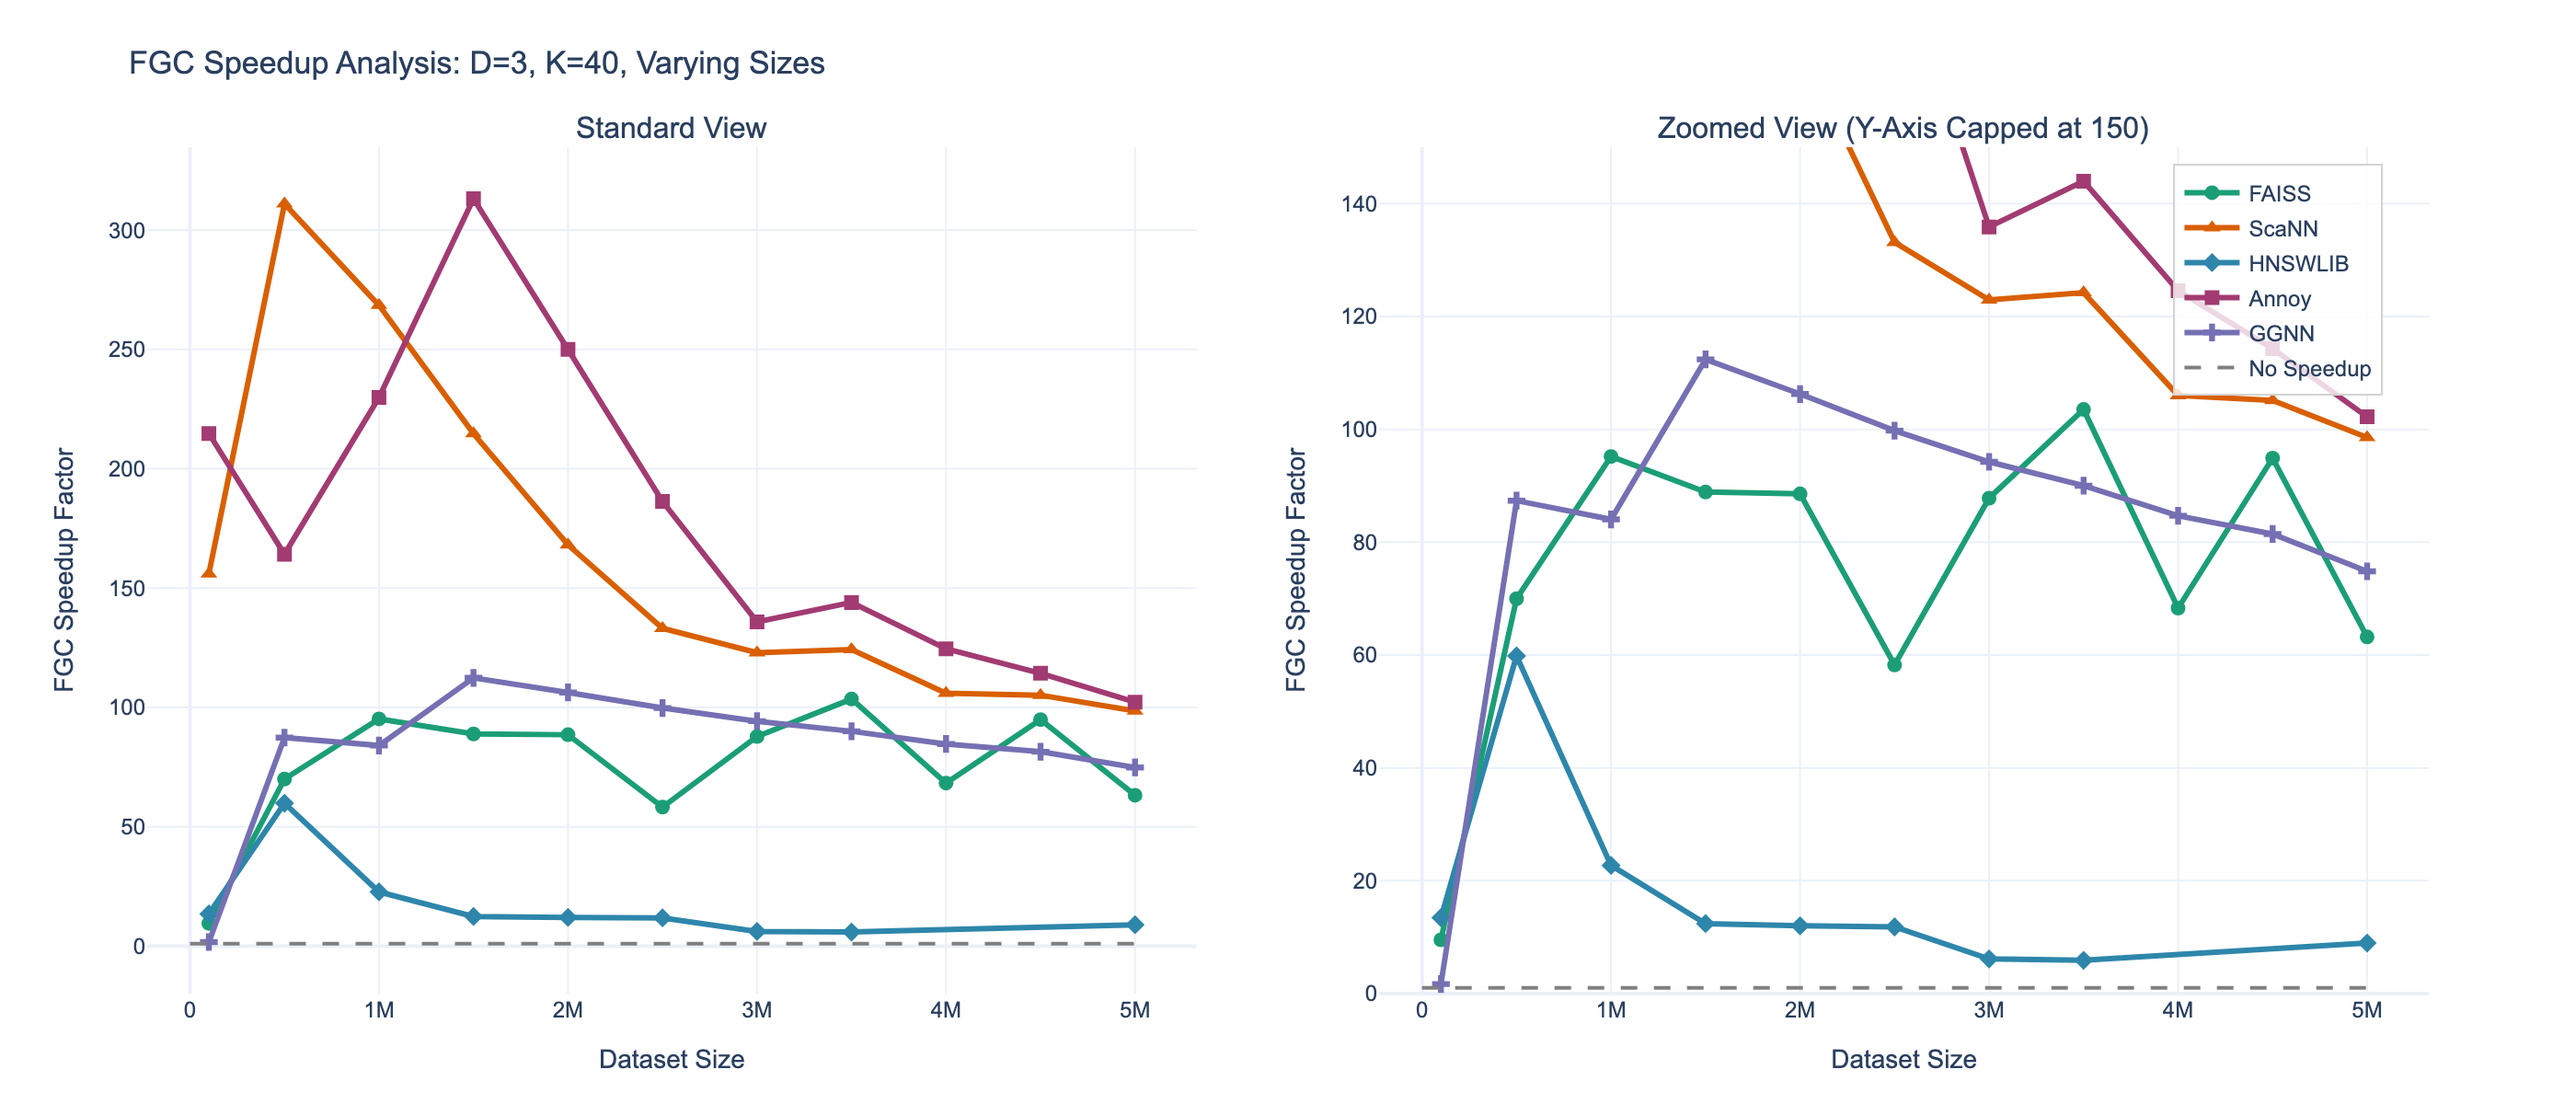
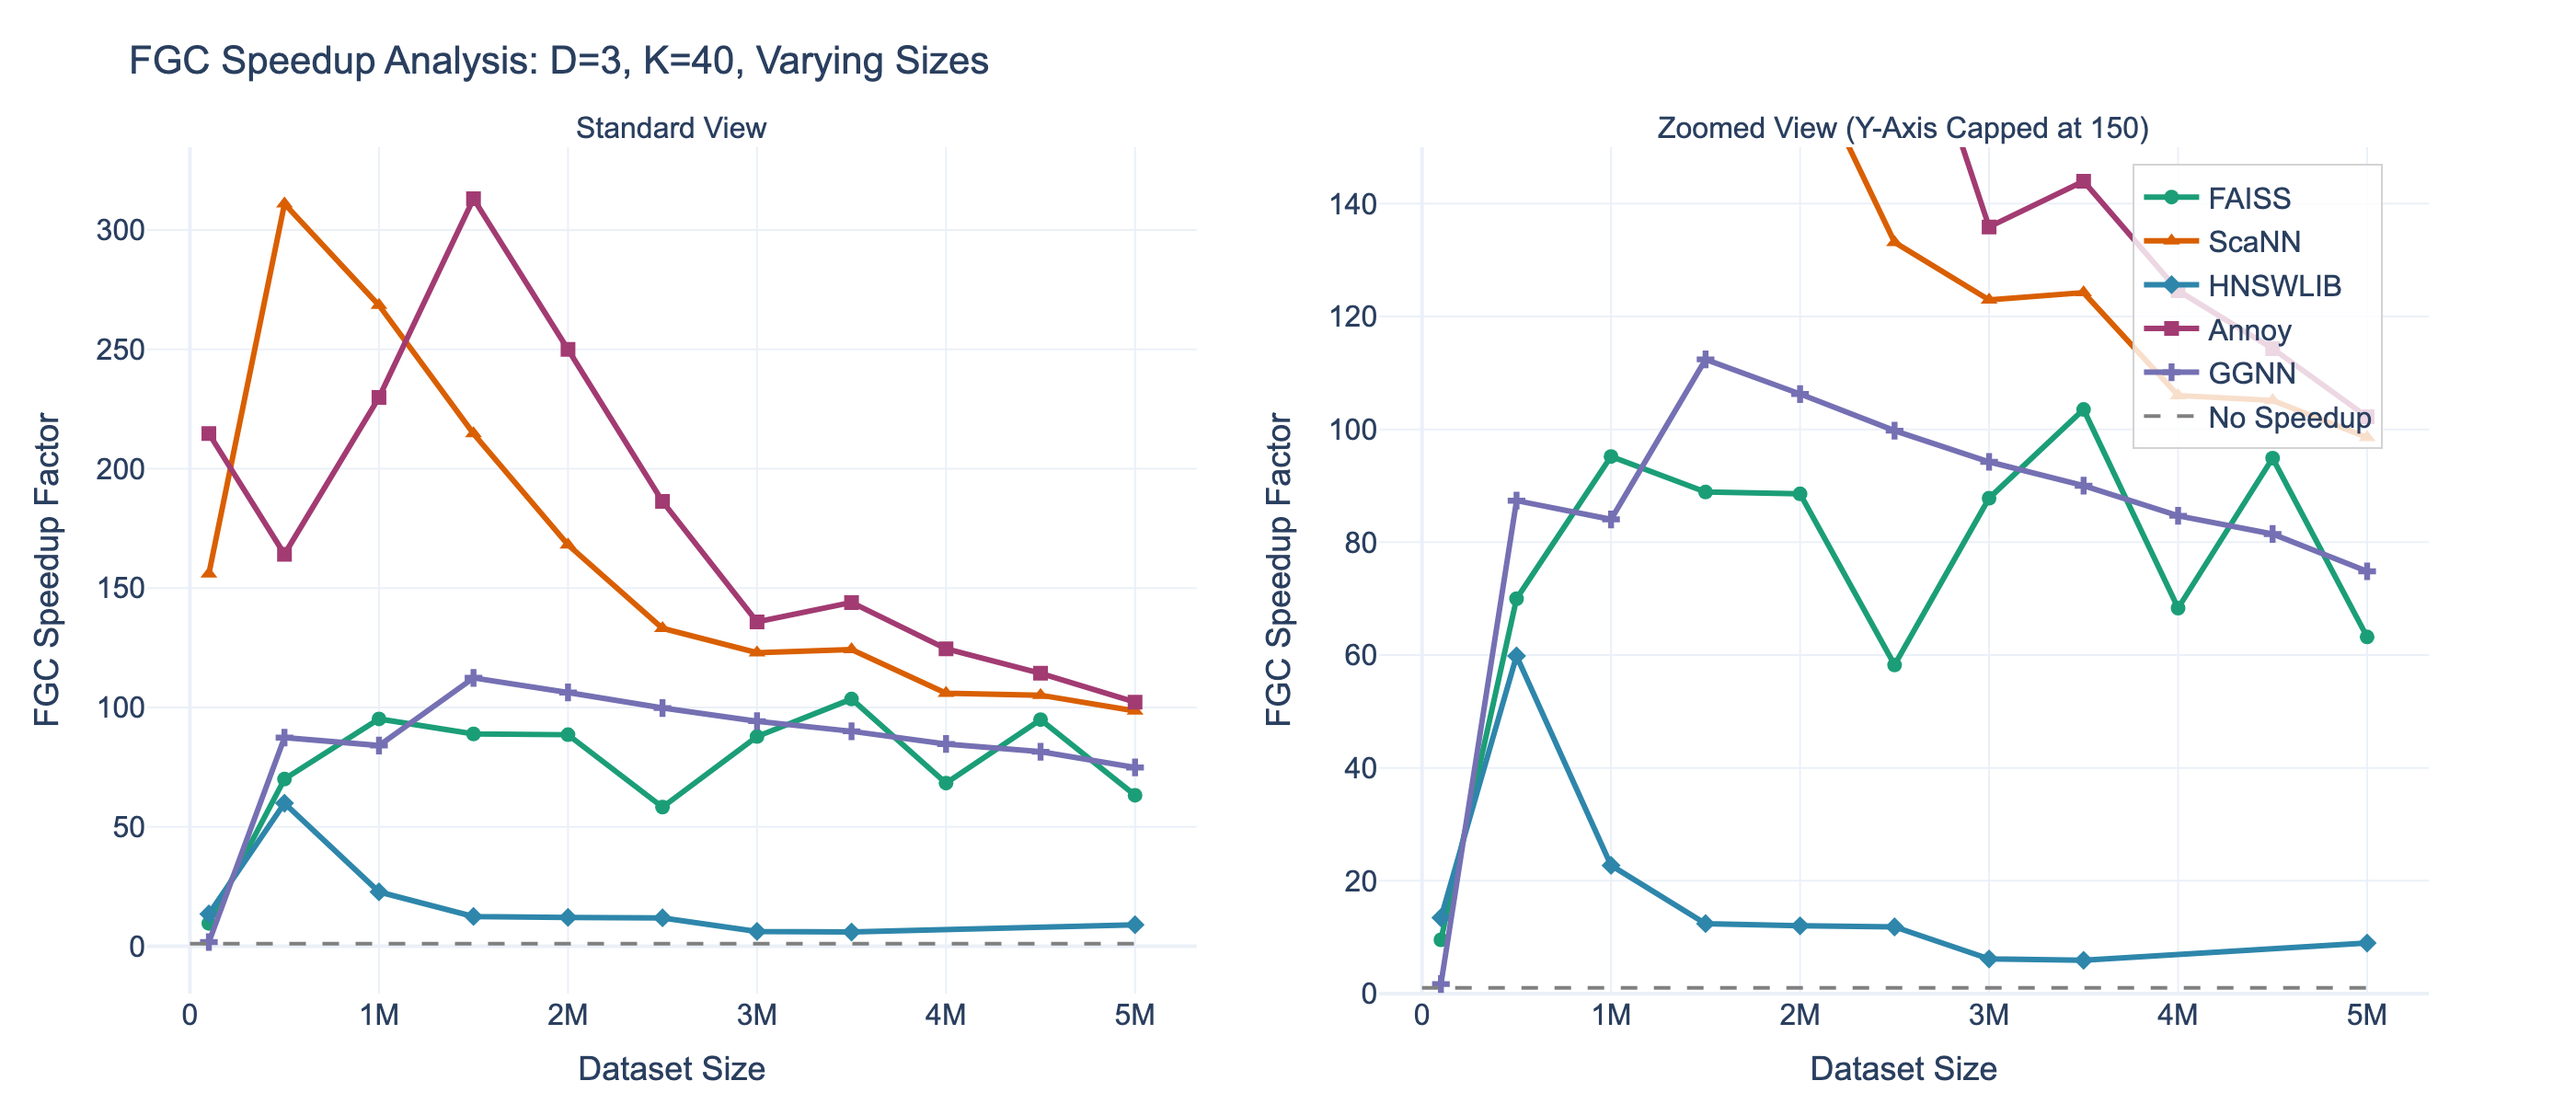
updates to zooming

diff --git a/process_csvs.py b/process_csvs.py
@@ -385,7 +385,8 @@ def plot_fgc_speedup_analysis(data: pd.DataFrame, analysis_type: str, **kwargs) 
         range=x_range,
         gridcolor='lightgray',
         title=x_title,
-        title_font_size=14
+        title_font_size=18,
+        tickfont=dict(size=16)
     )
 
     if analysis_type == 'sizes':
@@ -407,7 +408,8 @@ def plot_fgc_speedup_analysis(data: pd.DataFrame, analysis_type: str, **kwargs) 
     y_axis_config = {
         'gridcolor': 'lightgray',
         'title': "FGC Speedup Factor",
-        'title_font_size': 14
+        'title_font_size': 18,
+        'tickfont': dict(size=16)
     }
     if y_axis_cap:
         y_axis_config['range'] = [0, y_axis_cap]
@@ -421,13 +423,13 @@ def plot_fgc_speedup_analysis(data: pd.DataFrame, analysis_type: str, **kwargs) 
         title=dict(
             text=title,
             x=0.5,
-            font_size=16,
+            font_size=21,
             font_family="Arial"
         ),
         height=500,
         width=800 if analysis_type == 'dimensions' else 1200,
         template='plotly_white',
-        font=dict(family="Arial", size=12),
+        font=dict(family="Arial", size=16),
         legend=dict(
             orientation="v",
             yanchor="top",
@@ -476,6 +478,9 @@ def plot_side_by_side_with_zoom(data: pd.DataFrame, analysis_type: str, **kwargs
         subplot_titles=(subtitle_left, subtitle_right),
         horizontal_spacing=0.08
     )
+    # Update subplot title font size
+    for annotation in fig['layout']['annotations']:
+        annotation['font'] = dict(size=16)
 
     # Generate standard view
     fig_normal = plot_fgc_speedup_analysis(
@@ -500,10 +505,13 @@ def plot_side_by_side_with_zoom(data: pd.DataFrame, analysis_type: str, **kwargs
     else:
         x_title = "Dataset Size"
 
-    fig.update_xaxes(title_text=x_title, row=1, col=1)
-    fig.update_xaxes(title_text=x_title, row=1, col=2)
-    fig.update_yaxes(title_text="FGC Speedup Factor", row=1, col=1)
+    fig.update_xaxes(title_text=x_title, title_font_size=18,
+                     tickfont=dict(size=16), row=1, col=1)
+    fig.update_xaxes(title_text=x_title, title_font_size=18,
+                     tickfont=dict(size=16), row=1, col=2)
     fig.update_yaxes(title_text="FGC Speedup Factor",
+                     title_font_size=18, tickfont=dict(size=16), row=1, col=1)
+    fig.update_yaxes(title_text="FGC Speedup Factor", title_font_size=18, tickfont=dict(size=16),
                      range=[0, y_axis_cap], row=1, col=2)
 
     if analysis_type == 'sizes':
@@ -527,10 +535,11 @@ def plot_side_by_side_with_zoom(data: pd.DataFrame, analysis_type: str, **kwargs
     # Update main layout - position legend on rightmost subplot (col=2)
     fig.update_layout(
         title_text=main_title,
+        title_font_size=21,
         height=600,
         width=1400,
         template='plotly_white',
-        font=dict(family="Arial", size=12),
+        font=dict(family="Arial", size=16),
         legend=dict(
             orientation="v",
             yanchor="top",
@@ -554,6 +563,9 @@ def plot_k_comparison_dimensional_analysis(data: pd.DataFrame) -> go.Figure:
         subplot_titles=("K=10", "K=40", "K=100"),
         horizontal_spacing=0.08
     )
+    # Update subplot title font size
+    for annotation in fig['layout']['annotations']:
+        annotation['font'] = dict(size=16)
 
     k_values = [10, 40, 100]
 
@@ -576,21 +588,26 @@ def plot_k_comparison_dimensional_analysis(data: pd.DataFrame) -> go.Figure:
     for i in range(1, 4):
         fig.update_xaxes(
             title_text="Number of Dimensions (d)",
+            title_font_size=18,
+            tickfont=dict(size=16),
             range=[2, 10],
             row=1, col=i
         )
         fig.update_yaxes(
             title_text="FGC Speedup Factor" if i == 1 else "",
+            title_font_size=18 if i == 1 else None,
+            tickfont=dict(size=16),
             row=1, col=i
         )
 
     # Update main layout - position legend on rightmost subplot (col=3)
     fig.update_layout(
         title_text="FGC Dimensional Scaling Analysis: K Comparison (1M Vectors, d=2-10)",
+        title_font_size=21,
         height=600,
         width=1800,
         template='plotly_white',
-        font=dict(family="Arial", size=12),
+        font=dict(family="Arial", size=16),
         legend=dict(
             orientation="v",
             yanchor="top",
